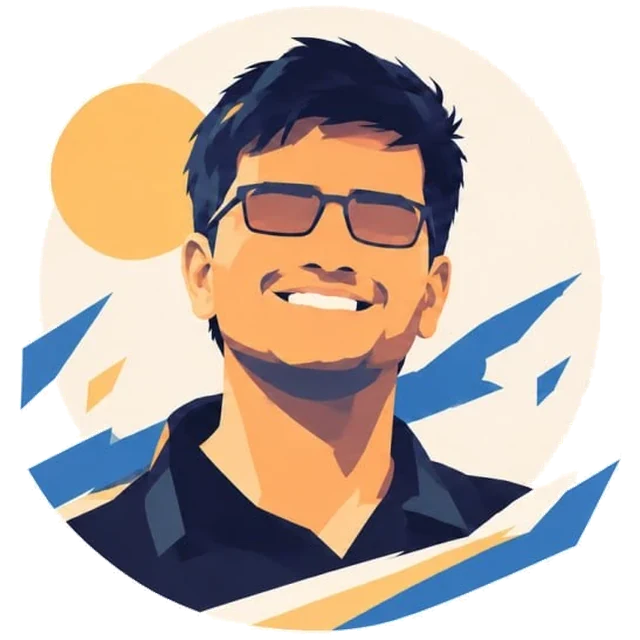
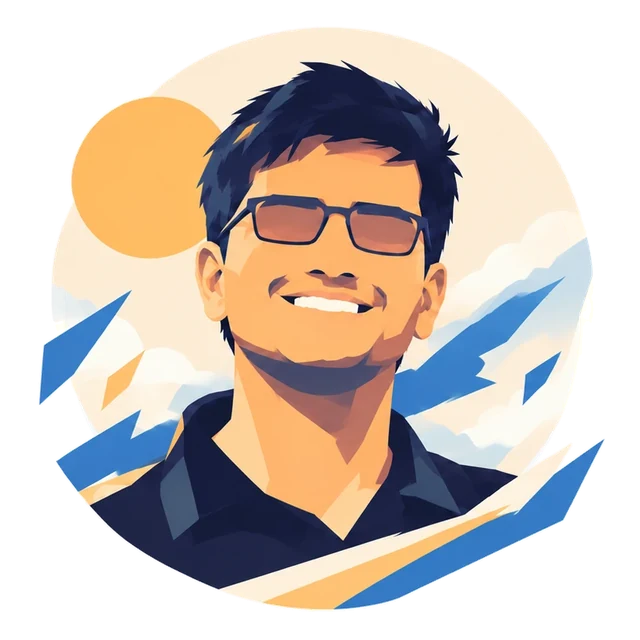
make transition more seamless

diff --git a/src/styles/index.css b/src/styles/index.css
@@ -368,24 +368,33 @@ h3 {
 
 /* ---------- portrait ---------- */
 
-/* Both theme variants are in the DOM; only the one matching data-theme shows. */
+/* Both theme variants are stacked in the same cell and cross-fade on theme change.
+   The two images share one frame, so only the scene changes, not the figure. */
 .portrait {
-  display: block;
+  display: grid;
 }
 
 .portrait img {
+  grid-area: 1 / 1;
   display: block;
   width: 100%;
   height: auto;
+  transition: opacity 0.6s ease;
 }
 
 .portrait .portrait-dark,
 :root[data-theme='dark'] .portrait .portrait-light {
-  display: none;
+  opacity: 0;
 }
 
 :root[data-theme='dark'] .portrait .portrait-dark {
-  display: block;
+  opacity: 1;
+}
+
+@media (prefers-reduced-motion: reduce) {
+  .portrait img {
+    transition: none;
+  }
 }
 
 /* ---------- hero ---------- */
